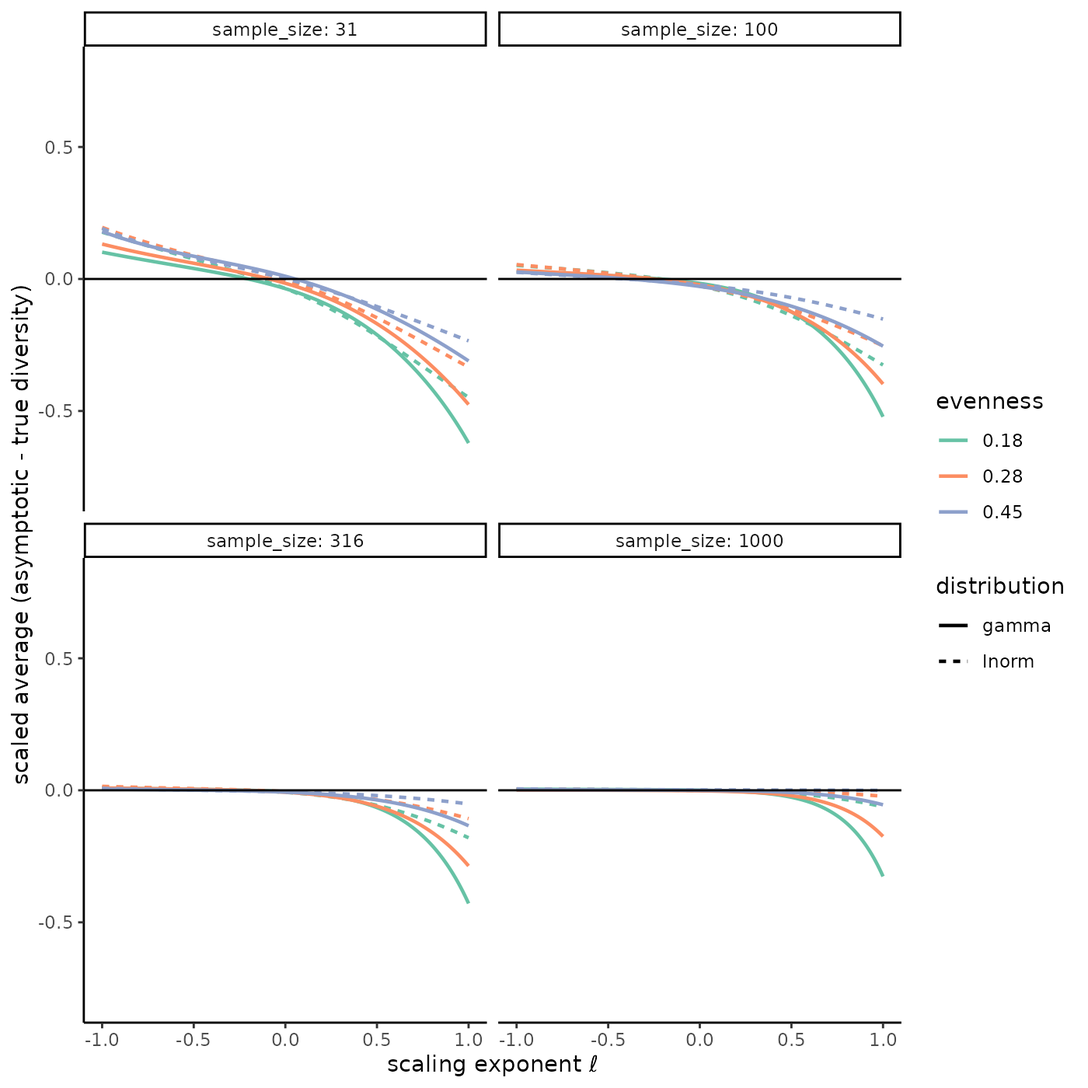
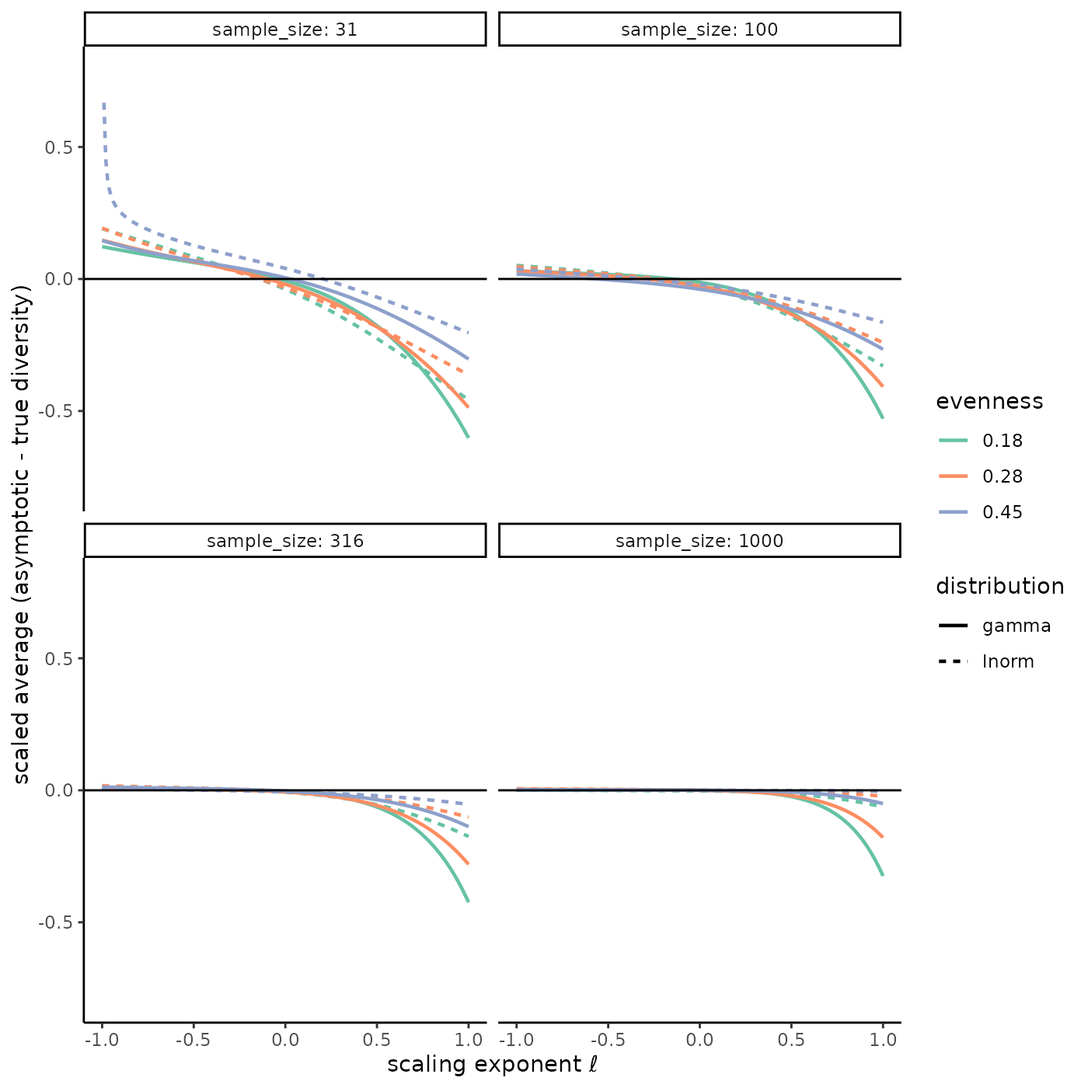
Built site for MeanRarity: 0.0.1.0000@5f2be55

diff --git a/articles/Using_MeanRarity.html b/articles/Using_MeanRarity.html
@@ -31,7 +31,7 @@
       </button>
       <span class="navbar-brand">
         <a class="navbar-link" href="../index.html">MeanRarity</a>
-        <span class="version label label-default" data-toggle="tooltip" data-placement="bottom" title="Released version">0.0.0.9000</span>
+        <span class="version label label-default" data-toggle="tooltip" data-placement="bottom" title="Released version">0.0.1.0000</span>
       </span>
     </div>
 
@@ -280,9 +280,9 @@
 <span class="va">uneven_sample</span> <span class="op">&lt;-</span> <span class="fu"><a href="../reference/sample_infinite.html">sample_infinite</a></span><span class="op">(</span><span class="va">uneven_SAD</span><span class="op">$</span><span class="va">rel_abundances</span>, <span class="fl">50</span><span class="op">)</span>
 <span class="co">#sample_infinite returns a numeric vector of sample species abundances</span>
 <span class="va">even_sample</span>
-<span class="co">#&gt;  [1] 10  6  5  4  3  3  1  2  2  2  1  3  2  2  0  0  1  0  2  1</span>
+<span class="co">#&gt;  [1] 11  7  5  1  5  3  2  2  2  3  2  2  0  2  1  1  1  0  0  0</span>
 <span class="va">uneven_sample</span>
-<span class="co">#&gt;  [1] 16  7  7  3  3  1  5  2  0  3  1  0  0  1  0  0  0  1  0  0</span>
+<span class="co">#&gt;  [1] 19  7  6  4  4  1  0  2  2  0  0  2  0  2  1  0  0  0  0  0</span>
 
 <span class="co"># compare diversity from sample vs. ideal SAD:</span>
 <span class="co"># likely pretty far off for a small sample!</span>
@@ -295,7 +295,7 @@
   <span class="fu"><a href="../reference/rarity.html">rarity</a></span><span class="op">(</span><span class="va">even_sample</span>, <span class="va">l</span><span class="op">)</span>
 <span class="op">}</span><span class="op">)</span><span class="op">)</span>
 <span class="co">#&gt;      [,1] [,2]     [,3]    </span>
-<span class="co">#&gt; [1,] 17   13.47104 10.77586</span>
+<span class="co">#&gt; [1,] 16   12.08521 9.398496</span>
 
 <span class="co"># with an uneven SAD, sample Hill-Simpson can be higher than true Hill-Simpson</span>
 <span class="co"># richness is always lower</span>
@@ -306,7 +306,7 @@
   <span class="fu"><a href="../reference/rarity.html">rarity</a></span><span class="op">(</span><span class="va">uneven_sample</span>, <span class="va">l</span><span class="op">)</span>
 <span class="op">}</span><span class="op">)</span><span class="op">)</span>
 <span class="co">#&gt;      [,1] [,2]     [,3]    </span>
-<span class="co">#&gt; [1,] 12   8.113423 6.038647</span>
+<span class="co">#&gt; [1,] 11   7.192127 5.040323</span>
 
 
 <span class="va">big_even_sample</span> <span class="op">&lt;-</span> <span class="fu"><a href="../reference/sample_infinite.html">sample_infinite</a></span><span class="op">(</span><span class="va">even_SAD</span><span class="op">$</span><span class="va">rel_abundances</span>, <span class="fl">1e7</span><span class="op">)</span>
@@ -320,7 +320,7 @@
   <span class="fu"><a href="../reference/rarity.html">rarity</a></span><span class="op">(</span><span class="va">big_even_sample</span>, <span class="va">l</span><span class="op">)</span>
 <span class="op">}</span><span class="op">)</span><span class="op">)</span>
 <span class="co">#&gt;      [,1] [,2]     [,3]    </span>
-<span class="co">#&gt; [1,] 20   15.11738 11.99564</span>
+<span class="co">#&gt; [1,] 20   15.12289 12.00517</span>
 
 <span class="co"># with an uneven SAD, sample Hill-Simpson can be higher than true Hill-Simpson</span>
 <span class="co"># richness is always lower</span>
@@ -331,7 +331,7 @@
   <span class="fu"><a href="../reference/rarity.html">rarity</a></span><span class="op">(</span><span class="va">big_uneven_sample</span>, <span class="va">l</span><span class="op">)</span>
 <span class="op">}</span><span class="op">)</span><span class="op">)</span>
 <span class="co">#&gt;      [,1] [,2]     [,3]    </span>
-<span class="co">#&gt; [1,] 20   9.369711 5.999597</span></code></pre></div>
+<span class="co">#&gt; [1,] 20   9.365834 5.996386</span></code></pre></div>
 <p>For any distribution of relative abundances, one can ask, “what is the Hill diversity of this distribution?” Yet the answer, of course, depends on the chosen value of the scaling parameter <span class="math inline">\(\ell\)</span>. For a comprehensive answer, one might look across values of <span class="math inline">\(\ell\)</span>, also known as a Hill “diversity profile” <span class="citation">(Chao et al. 2014)</span>. <code>MeanRarity</code> provides a function to generate a Hill diversity profile based on <span class="math inline">\(\ell\)</span> (rather than <span class="math inline">\(q\)</span>): <code><a href="../reference/divpro.html">divpro()</a></code>.</p>
 <div class="sourceCode" id="cb10"><pre class="downlit sourceCode r">
 <code class="sourceCode R"><span class="co"># the even and uneven communities have same richness but different Hill diversity when `ell != 1`</span>
@@ -366,12 +366,8 @@
 <p><code>MeanRarity::fitSAD()</code> returns species relative abundances (a SAD), and we generate finite, discrete abundance samples with the function <code><a href="../reference/sample_infinite.html">MeanRarity::sample_infinite()</a></code>. Here, we generated 1000 samples from each simulated SAD of 31, 100, 316, and 1000 individuals. Then, for each sample, we computed Hill diversity profiles for both the sample and estimated asymptotic Hill diversities. For each combination of SAD, sample size, and estimate type (i.e., sample or asymptotic) we plotted the scaled mean absolute error of each Hill diversity estimate (a unitless measure of bias) and the standard deviation of the log Hill diversity (a unitless measure of variability) for the entire Hill diversity profile from Hill-Simpson diversity to richness. We asked, on a relative scale, how choice of scaling exponent for Hill diversity would affect not only bias, but also sampling variability, and explored the interactions with evenness, distributional assumption, and sample size.</p>
 <div class="sourceCode" id="cb12"><pre class="downlit sourceCode r">
 <code class="sourceCode R"><span class="kw"><a href="https://rdrr.io/r/base/library.html">library</a></span><span class="op">(</span><span class="va"><a href="https://github.com/DavisVaughan/furrr">furrr</a></span><span class="op">)</span>
-<span class="co">#&gt; Loading required package: future</span>
 <span class="kw"><a href="https://rdrr.io/r/base/library.html">library</a></span><span class="op">(</span><span class="va"><a href="https://mikeroswell.github.io/MeanRarity">MeanRarity</a></span><span class="op">)</span>
 <span class="fu">plan</span><span class="op">(</span>strategy <span class="op">=</span> <span class="st">"multiprocess"</span>, workers <span class="op">=</span> <span class="fl">7</span><span class="op">)</span>
-<span class="co">#&gt; Warning: Strategy 'multiprocess' is deprecated in future (&gt;= 1.20.0). Instead,</span>
-<span class="co">#&gt; explicitly specify either 'multisession' or 'multicore'. In the current R</span>
-<span class="co">#&gt; session, 'multiprocess' equals 'multicore'.</span>
 <span class="va">evenness</span><span class="op">&lt;-</span><span class="fl">10</span><span class="op">^</span><span class="fu"><a href="https://rdrr.io/r/base/seq.html">seq</a></span><span class="op">(</span><span class="op">-</span><span class="fl">0.75</span>,<span class="op">-</span><span class="fl">0.35</span>,<span class="fl">0.2</span><span class="op">)</span>
 <span class="va">rich</span> <span class="op">&lt;-</span> <span class="fl">100</span>
 <span class="va">sample_sizes</span> <span class="op">&lt;-</span> <span class="fu"><a href="https://rdrr.io/r/base/Round.html">floor</a></span><span class="op">(</span><span class="fl">10</span><span class="op">^</span><span class="fu"><a href="https://rdrr.io/r/base/seq.html">seq</a></span><span class="op">(</span><span class="fl">1.5</span>, <span class="fl">3</span>, <span class="fl">0.5</span><span class="op">)</span><span class="op">)</span>
@@ -386,10 +382,6 @@
                   , distr <span class="op">=</span> <span class="va">dist</span><span class="op">)</span>
         <span class="op">}</span><span class="op">)</span>
     <span class="op">}</span><span class="op">)</span><span class="op">)</span>
-<span class="co">#&gt; Warning in fit_SAD(rich = rich, simpson = simp_evenness * (rich - 1) + 1, : Rarest species has relative abundance  3.27690457896571e-13 . </span>
-<span class="co">#&gt; Consider implied community size.</span>
-<span class="co">#&gt; Warning in fit_SAD(rich = rich, simpson = simp_evenness * (rich - 1) + 1, : Rarest species has relative abundance  1.89186409967535e-08 . </span>
-<span class="co">#&gt; Consider implied community size.</span>
 
 <span class="co"># set sample size</span>
 <span class="va">reps</span> <span class="op">&lt;-</span> <span class="fl">1e3</span>
@@ -423,8 +415,7 @@
                    , mean_sample <span class="op">=</span> <span class="fu"><a href="https://rdrr.io/r/base/mean.html">mean</a></span><span class="op">(</span><span class="va">sample_diversity</span><span class="op">)</span>
                    , mean_asymptotic <span class="op">=</span> <span class="fu"><a href="https://rdrr.io/r/base/mean.html">mean</a></span><span class="op">(</span><span class="va">estimated_diversity</span><span class="op">)</span><span class="op">)</span> <span class="op">%&gt;%</span>
   <span class="fu">dplyr</span><span class="fu">::</span><span class="fu"><a href="https://dplyr.tidyverse.org/reference/mutate.html">mutate</a></span><span class="op">(</span>evenness <span class="op">=</span> <span class="fu"><a href="https://rdrr.io/r/base/factor.html">as.factor</a></span><span class="op">(</span><span class="fu"><a href="https://rdrr.io/r/base/Round.html">round</a></span><span class="op">(</span><span class="va">evenness</span>, <span class="fl">2</span><span class="op">)</span><span class="op">)</span>
-                , sample_size <span class="op">=</span> <span class="va">SS</span><span class="op">)</span>
-<span class="co">#&gt; `summarise()` has grouped output by 'evenness', 'distribution', 'ell'. You can override using the `.groups` argument.</span></code></pre></div>
+                , sample_size <span class="op">=</span> <span class="va">SS</span><span class="op">)</span></code></pre></div>
 <p>Our findings for bias were similar to those reported elsewhere <em>CITE</em>. We found a strong negative bias for species richness for the asymptotic estimator, as well as for the sample diversity. Evenness and distributional assumption of the SAD affected the bias for both sample and Hill diversity estimates. More even communities tended to exhibit lower bias for richness but higher bias for Hill-Simpson diversity, although this pattern depended to some degree on both distributional assumption and sampling intensity. For the asymptotic Hill diversity estimates, bias at very low sample sizes was less than sample diversity but could still be extreme. However, this bias evaporated quickly for Hill diversities when the scaling exponent $&lt;&lt; 1 $.</p>
 <p>&lt;– Figures showinng bias for sample diveristy and Chao/Jost asymptotic estimators –&gt;</p>
 <div class="sourceCode" id="cb13"><pre class="downlit sourceCode r">
@@ -444,7 +435,7 @@
   <span class="fu">ggplot2</span><span class="fu">::</span><span class="fu"><a href="https://ggplot2.tidyverse.org/reference/labs.html">labs</a></span><span class="op">(</span>x <span class="op">=</span> <span class="st">"scaling exponent \U2113"</span>, y <span class="op">=</span> <span class="st">"scaled variability in asymptotic diversity estimate (sdlog)"</span><span class="op">)</span> <span class="op">+</span>
   <span class="fu">ggplot2</span><span class="fu">::</span><span class="fu"><a href="https://ggplot2.tidyverse.org/reference/scale_continuous.html">scale_y_continuous</a></span><span class="op">(</span>limits <span class="op">=</span> <span class="fu"><a href="https://rdrr.io/r/base/c.html">c</a></span><span class="op">(</span><span class="fl">0</span>, <span class="cn">NA</span><span class="op">)</span>,
                               expand <span class="op">=</span> <span class="fu">ggplot2</span><span class="fu">::</span><span class="fu"><a href="https://ggplot2.tidyverse.org/reference/expansion.html">expansion</a></span><span class="op">(</span>mult <span class="op">=</span> <span class="fu"><a href="https://rdrr.io/r/base/c.html">c</a></span><span class="op">(</span><span class="fl">0</span>, <span class="fl">0.1</span><span class="op">)</span><span class="op">)</span><span class="op">)</span>
-<span class="co">#&gt; Warning: Removed 600 row(s) containing missing values (geom_path).</span></code></pre></div>
+<span class="co">#&gt; Warning: Removed 601 row(s) containing missing values (geom_path).</span></code></pre></div>
 <p><img src="Using_MeanRarity_files/figure-html/bias%20figure-1.png" width="700"></p>
 <div class="sourceCode" id="cb14"><pre class="downlit sourceCode r">
 <code class="sourceCode R">
@@ -464,7 +455,7 @@
   <span class="fu">ggplot2</span><span class="fu">::</span><span class="fu"><a href="https://ggplot2.tidyverse.org/reference/labs.html">labs</a></span><span class="op">(</span>x <span class="op">=</span> <span class="st">"scaling exponent \U2113"</span>, y <span class="op">=</span> <span class="st">"scaled average (asymptotic - true diversity)"</span><span class="op">)</span> <span class="op">+</span>
   <span class="fu">ggplot2</span><span class="fu">::</span><span class="fu"><a href="https://ggplot2.tidyverse.org/reference/scale_continuous.html">scale_y_continuous</a></span><span class="op">(</span>limits <span class="op">=</span> <span class="fu"><a href="https://rdrr.io/r/base/c.html">c</a></span><span class="op">(</span><span class="op">-</span><span class="fl">0.8</span>, <span class="fl">0.8</span><span class="op">)</span><span class="op">)</span> <span class="op">+</span>
   <span class="fu">ggplot2</span><span class="fu">::</span><span class="fu"><a href="https://ggplot2.tidyverse.org/reference/geom_abline.html">geom_hline</a></span><span class="op">(</span>yintercept <span class="op">=</span> <span class="fl">0</span><span class="op">)</span>
-<span class="co">#&gt; Warning: Removed 600 row(s) containing missing values (geom_path).</span></code></pre></div>
+<span class="co">#&gt; Warning: Removed 601 row(s) containing missing values (geom_path).</span></code></pre></div>
 <p><img src="Using_MeanRarity_files/figure-html/bias%20figure-2.png" width="700"></p>
 <p>Much less explored is the variability of both sample diversity, and of asymptotic diversity estimates, under random sampling expectations. Here, our results were striking, and challenged the orthodoxy that Hill-Simpson diversity is the low-uncertainty option for comparing assemblages. The sample Hill-Simpson diversity, which has been promoted as a diversity metric that is robust to variation in species abundance distributions and sampling intensity <span class="citation">(<span class="citeproc-not-found" data-reference-id="Chase2013"><strong>???</strong></span>)</span>, exhibited high sampling uncertainty for most SADs and sampling intensities that was greater than for any other Hill diversity. The asymptotic estimator was typically more variable than the sample diversity was. This was especially the case for richness. While the sampling variability in the asymptotic Hill-Simpson diversity was still higher than for the asymptotic Hill-Shannon diversity, as we saw for the sample diversity, as the scaling exponent <span class="math inline">\(\ell\)</span>$ approached zero (i.e. more like richness), the variability was high and declined slowly with additional sampling. Depending on the evenness and distributional assumption of the SAD, the asymptotic richness estimate could be more, or less, than the variability in the asymptotic Hill-Simpson diversity estimate.</p>
 <p>```{ r sampling variation in diversity estimates} # variability in sample diversity</p>

diff --git a/reference/plot_data.html b/reference/plot_data.html
@@ -6,7 +6,7 @@
 <meta http-equiv="X-UA-Compatible" content="IE=edge">
 <meta name="viewport" content="width=device-width, initial-scale=1.0">
 
-<title>Take an abundance vector and subsample to size — sample_finite • MeanRarity</title>
+<title>Sampling variability in Hill diversity — plot_data • MeanRarity</title>
 
 
 <!-- jquery -->
@@ -39,9 +39,12 @@
 
 
 
-<meta property="og:title" content="Take an abundance vector and subsample to size — sample_finite" />
-<meta property="og:description" content="Take a finite sample of individuals without replacement from an integer
-abundance vector." />
+<meta property="og:title" content="Sampling variability in Hill diversity — plot_data" />
+<meta property="og:description" content="A simulated dataset with mean absolute error and log sd for sample and
+asymptotic Hill diversity estimates based on finite samples from simulated
+species abundance distributions. Hill diversity was estimated with the naïve
+estimator, rarity(sample_freq, l) and the Chao and Jost 2015 non-parametric asymptotic estimator Chao_Hill_abu(sample_freq, l), and parameterized by
+richness and evenness" />
 
 
 
@@ -122,42 +125,53 @@ abundance vector." />
 <div class="row">
   <div class="col-md-9 contents">
     <div class="page-header">
-    <h1>Take an abundance vector and subsample to size</h1>
+    <h1>Sampling variability in Hill diversity</h1>
     
-    <div class="hidden name"><code>sample_finite.Rd</code></div>
+    <div class="hidden name"><code>plot_data.Rd</code></div>
     </div>
 
     <div class="ref-description">
-    <p>Take a finite sample of individuals without replacement from an integer
-abundance vector.</p>
+    <p>A simulated dataset with mean absolute error and log sd for sample and
+asymptotic Hill diversity estimates based on finite samples from simulated
+species abundance distributions. Hill diversity was estimated with the naïve
+estimator, <code>rarity(sample_freq, l) and the Chao and Jost 2015 non-parametric asymptotic estimator </code>Chao_Hill_abu(sample_freq, l), and parameterized by
+richness and evenness</p>
     </div>
 
-    <pre class="usage"><span class='fu'>sample_finite</span><span class='op'>(</span><span class='va'>ab</span>, size <span class='op'>=</span> <span class='fu'><a href='https://rdrr.io/r/base/sum.html'>sum</a></span><span class='op'>(</span><span class='va'>ab</span><span class='op'>)</span><span class='op'>)</span></pre>
+    <pre class="usage"><span class='va'>plot_data</span></pre>
 
-    <h2 class="hasAnchor" id="arguments"><a class="anchor" href="#arguments"></a>Arguments</h2>
-    <table class="ref-arguments">
-    <colgroup><col class="name" /><col class="desc" /></colgroup>
-    <tr>
-      <th>ab</th>
-      <td><p>A numeric vector of species abundances or relative abundances.</p></td>
-    </tr>
-    <tr>
-      <th>size</th>
-      <td><p>Number of individuals to sample, defaults to all of them, a
-scalar</p></td>
-    </tr>
-    </table>
 
-    <h2 class="hasAnchor" id="value"><a class="anchor" href="#value"></a>Value</h2>
+    <h2 class="hasAnchor" id="format"><a class="anchor" href="#format"></a>Format</h2>
 
-    <p>A numeric vector of species abundances, including 0's</p>
-    <h2 class="hasAnchor" id="see-also"><a class="anchor" href="#see-also"></a>See also</h2>
+    <p>A data.frame with 7224 rows and 9 variables:</p><ul>
+<li><p><em>evenness</em> Factor, approximately the ratio of Hill-Simpson to richness</p></li>
+<li><p><em>distribution</em> Factor, family, one of "lnorm" or "gamma"</p></li>
+<li><p><em>ell</em>: Scalar, scaling parameter for Hill diversity</p></li>
+<li><p><em>SS</em> Integer, number of individuals sampled</p></li>
+<li><p><em>sample</em>: Numeric, Hill diversity of the sample</p></li>
+<li><p><em>asymptotic</em>: Numeric, estimated Hill diversity of the SAD based on
+asymptotic estimator</p></li>
+<li><p><em>true_diversity</em> Numeric, Hill diversity of the SAD</p></li>
+<li><p><em>mean_sample</em> Numeric, mean of sample diversity for combination of ell,
+evenness, distribution, and SS.</p></li>
+<li><p><em>mean_asymptotic</em> Numeric, mean of estimated asymptotic diversity for
+combination of ell, evenness, distribution, and SS.</p></li>
+</ul>
 
-    <div class='dont-index'><p><code><a href='sample_infinite.html'>sample_infinite</a></code></p></div>
+    <h2 class="hasAnchor" id="references"><a class="anchor" href="#references"></a>References</h2>
 
-    <h2 class="hasAnchor" id="examples"><a class="anchor" href="#examples"></a>Examples</h2>
-    <pre class="examples"><div class='input'><span class='fu'>sample_finite</span><span class='op'>(</span><span class='fl'>1</span><span class='op'>:</span><span class='fl'>9</span>, <span class='fl'>15</span><span class='op'>)</span>
-</div><div class='output co'>#&gt; [1] 0 1 1 2 2 1 4 2 2</div></pre>
+    <p>Chao A, Jost L (2015).
+&#8220;Estimating diversity and entropy profiles via discovery rates of new species.&#8221;
+<em>Methods in Ecology and Evolution</em>, <b>6</b>(8), 873--882.
+ISSN 2041210X, doi: <a href='https://doi.org/10.1111/2041-21'>10.1111/2041-21</a>
+.
+
+Chao A, Ricotta C, Aldo P (2019).
+&#8220;Quantifying evenness and linking it to diversity, beta diversity, and similarity.&#8221;
+<em>Ecology</em>, 1--15.
+ISSN 0012-9658, doi: <a href='https://doi.org/10.1002/ecy.2852'>10.1002/ecy.2852</a>
+.</p>
+
   </div>
   <div class="col-md-3 hidden-xs hidden-sm" id="pkgdown-sidebar">
     <nav id="toc" data-toggle="toc" class="sticky-top">

diff --git a/reference/MeanRarity-package.html b/reference/MeanRarity-package.html
@@ -79,7 +79,7 @@ and (Jost 2006)" />
       </button>
       <span class="navbar-brand">
         <a class="navbar-link" href="../index.html">MeanRarity</a>
-        <span class="version label label-default" data-toggle="tooltip" data-placement="bottom" title="Released version">0.0.0.9000</span>
+        <span class="version label label-default" data-toggle="tooltip" data-placement="bottom" title="Released version">0.0.1.0000</span>
       </span>
     </div>
 
@@ -190,6 +190,13 @@ doi: <a href='https://doi.org/10.1080/01621459.1982.10477845'>10.1080/01621459.1
 <em>Oikos</em>, <b>130</b>(3), 321--338.
 ISSN 0030-1299, doi: <a href='https://doi.org/10.1111/oik.07202'>10.1111/oik.07202</a>
 , <a href='https://onlinelibrary.wiley.com/doi/10.1111/oik.07202'>https://onlinelibrary.wiley.com/doi/10.1111/oik.07202</a>.</p>
+    <h2 class="hasAnchor" id="see-also"><a class="anchor" href="#see-also"></a>See also</h2>
+
+    <div class='dont-index'><p>Useful links:</p><ul>
+<li><p><a href='https://mikeroswell.github.io/MeanRarity'>https://mikeroswell.github.io/MeanRarity</a></p></li>
+</ul>
+
+</div>
     <h2 class="hasAnchor" id="author"><a class="anchor" href="#author"></a>Author</h2>
 
     <p><strong>Maintainer</strong>: Michael Roswell <a href='mailto:mike.roswell@gmail.com'>mike.roswell@gmail.com</a> (<a href='https://orcid.org/0000-0002-8479-9184'>ORCID</a>)</p>

diff --git a/reference/errs.html b/reference/errs.html
@@ -76,7 +76,7 @@ Jost 2015 non-parametric asymptotic estimator Chao_Hill_abu(sample_freq, l), and
       </button>
       <span class="navbar-brand">
         <a class="navbar-link" href="../index.html">MeanRarity</a>
-        <span class="version label label-default" data-toggle="tooltip" data-placement="bottom" title="Released version">0.0.0.9000</span>
+        <span class="version label label-default" data-toggle="tooltip" data-placement="bottom" title="Released version">0.0.1.0000</span>
       </span>
     </div>
 
@@ -148,7 +148,7 @@ Jost 2015 non-parametric asymptotic estimator <code><a href='Chao_Hill_abu.html'
 <li><p><em>distribution</em> Factor, family, one of "lnorm" or "gamma"</p></li>
 <li><p><em>fitted.parameter</em> Factor, shape parameter for fitting SAD</p></li>
 <li><p><em>n</em>: Numeric, individuals sampled</p></li>
-<li><p><em>SAD</em>: index of SAD sampled</p></li>
+<li><p><em>SAD</em>: Integer, index of SAD sampled</p></li>
 <li><p><em>estimator</em> Character, estimator whose error is described</p></li>
 <li><p><em>rmse</em> Numeric, root mean squared error of estimator</p></li>
 <li><p><em>bias</em> Numeric, mean difference between estimator and true diversity</p></li>

diff --git a/authors.html b/authors.html
@@ -71,7 +71,7 @@
       </button>
       <span class="navbar-brand">
         <a class="navbar-link" href="index.html">MeanRarity</a>
-        <span class="version label label-default" data-toggle="tooltip" data-placement="bottom" title="Released version">0.0.0.9000</span>
+        <span class="version label label-default" data-toggle="tooltip" data-placement="bottom" title="Released version">0.0.1.0000</span>
       </span>
     </div>
 
@@ -124,12 +124,12 @@
       
     </div>
 
-    <p>Michael Roswell and Jonathan Dushoff 2020 MeanRarity: Hill Diversity Estimation and Visualisation R package version 0.0.0.9000 URL: https://github.com/mikeroswell/MeanRarity.</p>
+    <p>Michael Roswell and Jonathan Dushoff 2021 MeanRarity: Hill Diversity Estimation and Visualisation R package version 0.0.1.0000 URL: https://github.com/mikeroswell/MeanRarity.</p>
     <pre>@Manual{,
   title = {MeanRarity: Hill Diversity Estimation and Visualization},
   author = {Michael Roswell and Joanathan Dushoff},
-  year = {2020},
-  note = {R package version 0.0.0.9000},
+  year = {2021},
+  note = {R package version 0.0.1.0000},
   url = {https://github.com/mikeroswell/MeanRarity},
 }</pre>
 

diff --git a/reference/index.html b/reference/index.html
@@ -71,7 +71,7 @@
       </button>
       <span class="navbar-brand">
         <a class="navbar-link" href="../index.html">MeanRarity</a>
-        <span class="version label label-default" data-toggle="tooltip" data-placement="bottom" title="Released version">0.0.0.9000</span>
+        <span class="version label label-default" data-toggle="tooltip" data-placement="bottom" title="Released version">0.0.1.0000</span>
       </span>
     </div>
 
@@ -291,6 +291,12 @@ plots</p></td>
           <p><code><a href="pfun.html">pfun()</a></code> </p>
         </td>
         <td><p>Power transformation</p></td>
+      </tr><tr>
+        
+        <td>
+          <p><code><a href="plot_data.html">plot_data</a></code> </p>
+        </td>
+        <td><p>Sampling variability in Hill diversity</p></td>
       </tr><tr>
         
         <td>

diff --git a/reference/mean_ests.html b/reference/mean_ests.html
@@ -75,7 +75,7 @@ asymptotic Hill diversity for each of the 4 community samples analyzed in
       </button>
       <span class="navbar-brand">
         <a class="navbar-link" href="../index.html">MeanRarity</a>
-        <span class="version label label-default" data-toggle="tooltip" data-placement="bottom" title="Released version">0.0.0.9000</span>
+        <span class="version label label-default" data-toggle="tooltip" data-placement="bottom" title="Released version">0.0.1.0000</span>
       </span>
     </div>
 

diff --git a/reference/white_y.html b/reference/white_y.html
@@ -75,7 +75,7 @@ consistent plot size that can be included in a multi-panel plot" />
       </button>
       <span class="navbar-brand">
         <a class="navbar-link" href="../index.html">MeanRarity</a>
-        <span class="version label label-default" data-toggle="tooltip" data-placement="bottom" title="Released version">0.0.0.9000</span>
+        <span class="version label label-default" data-toggle="tooltip" data-placement="bottom" title="Released version">0.0.1.0000</span>
       </span>
     </div>
 

diff --git a/reference/combfun.html b/reference/combfun.html
@@ -75,7 +75,7 @@ total &quot;weight&quot; of all species of a given rarity." />
       </button>
       <span class="navbar-brand">
         <a class="navbar-link" href="../index.html">MeanRarity</a>
-        <span class="version label label-default" data-toggle="tooltip" data-placement="bottom" title="Released version">0.0.0.9000</span>
+        <span class="version label label-default" data-toggle="tooltip" data-placement="bottom" title="Released version">0.0.1.0000</span>
       </span>
     </div>
 

diff --git a/reference/try_SAD.html b/reference/try_SAD.html
@@ -74,7 +74,7 @@ and gives relative abundance estimates for each species." />
       </button>
       <span class="navbar-brand">
         <a class="navbar-link" href="../index.html">MeanRarity</a>
-        <span class="version label label-default" data-toggle="tooltip" data-placement="bottom" title="Released version">0.0.0.9000</span>
+        <span class="version label label-default" data-toggle="tooltip" data-placement="bottom" title="Released version">0.0.1.0000</span>
       </span>
     </div>
 

diff --git a/reference/beeAbunds.html b/reference/beeAbunds.html
@@ -73,7 +73,7 @@ collected at each site during 15 30-minute transects." />
       </button>
       <span class="navbar-brand">
         <a class="navbar-link" href="../index.html">MeanRarity</a>
-        <span class="version label label-default" data-toggle="tooltip" data-placement="bottom" title="Released version">0.0.0.9000</span>
+        <span class="version label label-default" data-toggle="tooltip" data-placement="bottom" title="Released version">0.0.1.0000</span>
       </span>
     </div>
 

diff --git a/reference/beeObs.html b/reference/beeObs.html
@@ -73,7 +73,7 @@ collected at each site during 15 30-minute transects." />
       </button>
       <span class="navbar-brand">
         <a class="navbar-link" href="../index.html">MeanRarity</a>
-        <span class="version label label-default" data-toggle="tooltip" data-placement="bottom" title="Released version">0.0.0.9000</span>
+        <span class="version label label-default" data-toggle="tooltip" data-placement="bottom" title="Released version">0.0.1.0000</span>
       </span>
     </div>
 
